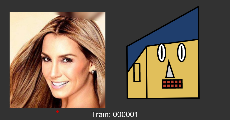
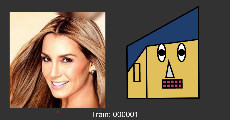
added lip colour

Changed region(s): [[0.6696, 0.375, 0.7304, 0.5], [0.7609, 0.4, 0.8217, 0.475], [0.7, 0.675, 0.7913, 0.725]]

diff --git a/myFace.js b/myFace.js
@@ -1,4 +1,16 @@
-//my consts 
+//my consts
+//colours
+const red=[188,66,46];
+const yellow=[225,191,91];
+const blue=[31,62,109];
+const black=[0,0,0];
+const grey=[211,211,209];
+const white=[255,255,255];
+const darkGrey=[110,110,110];
+const pink=[188,66,108];
+
+
+
 //sideburns
 const faceScale=0.5;
 const eyeHeightScalar=7;
@@ -25,18 +37,9 @@ const minNumberOfteeth=3;
 const maxNumberOfTeeth=8;
 
 
-
 const myStrokeWeight=0.2*faceScale;
 
-//colours
-const red=[188,66,46];
-const yellow=[225,191,91];
-const blue=[31,62,109];
-const black=[0,0,0];
-const grey=[211,211,209];
-const white=[255,255,255];
-const darkGrey=[110,110,110];
-const pink=[188,66,108];
+
 
 class myFace{
  
@@ -54,14 +57,14 @@ class myFace{
   eyeBallCol=white;
   eyeCentreCol=black;
   eyeY=-3*faceScale;
-  mouthColour=red;
+ 
   innerEarCol=this.skinColour;
   //eyeStroke=true; 
   earShape="none";
   noseCol=grey;
   
   constructor(){
-    
+    this.masculineLip=true;
     this.sideBurn="triangle";
     
     this.sideBurnHeight=this.getAverage(minSideBurnHeight,maxSideBurnHeight);
@@ -70,8 +73,7 @@ class myFace{
     this.noseDirection="both";
     this.pupilSize="wide";
  
-    // this.innerEyeWidth=this.getAverage(minInnerEyeWidth,maxInnerEyeWidth);
-    // this.innerEyeHeight=this.getAverage(minInnerEyeHeight,maxInnerEyeHeight);
+  
     this.earY=this.getAverage(minEarY,maxEarY);
    
   
@@ -128,7 +130,12 @@ class myFace{
     }
   }
   drawMouth(){
-   
+    if(this.masculineLip){
+      this.mouthColour=red;
+    }
+    else{
+      this.mouthColour=pink;
+    }
     fill(this.mouthColour);
     rectMode(CENTER);
 

diff --git a/face.js b/face.js
@@ -8,7 +8,7 @@ var DEBUG_MODE =// false;
 true;
 
 // this can be used to set the number of sliders to show
-var NUM_SLIDERS = 8;
+var NUM_SLIDERS = 9;
 
 // other variables can be in here too
 // here's some examples for colors used
@@ -105,7 +105,7 @@ function Face() {
     this.face.hasTeeth=0.5<map(settings[6], 0, 100, 0,1);
     
     this.face.numberOfteeth=Math.floor(map(settings[7], 0, 100, minNumberOfteeth,maxNumberOfTeeth));
-
+    this.face.masculineLip=0.5<map(settings[8], 0, 100, 0,1);
     
   }
 
@@ -125,7 +125,7 @@ function Face() {
    
     settings[6]=map(this.face.hasTeeth?1:0, 0,1, 0, 100);
     settings[7]=map(this.face.numberOfteeth, minNumberOfteeth,maxNumberOfTeeth, 0, 100);
-    
+    settings[8]=map(this.face.masculineLip?1:0, 0,1, 0, 100);
     return settings;
   }
 }

diff --git a/index.html b/index.html
@@ -85,6 +85,10 @@
                     <td>number of teeth</td>
                     <td id="slider8Container"></td>
                 </tr>
+                <tr>
+                    <td>lip colour</td>
+                    <td id="slider9Container"></td>
+                </tr>
 
                 <tr>
                 </tr>

diff --git a/README.md b/README.md
@@ -1,1 +1,1 @@
-Even though as I said in my last message the eye pupil isn't going to be the most distingushable feature I have added a couple more discrete options to the size so there are now 5 options.  
+I have added an additional parameter to represent the lip colour which can either be red or pink which I will use to represent if the person is mascinline or feminine. I did this as I have ideas on how I want to train the other parameters but I think the model will have issues if presented with a male and female that have similar features
